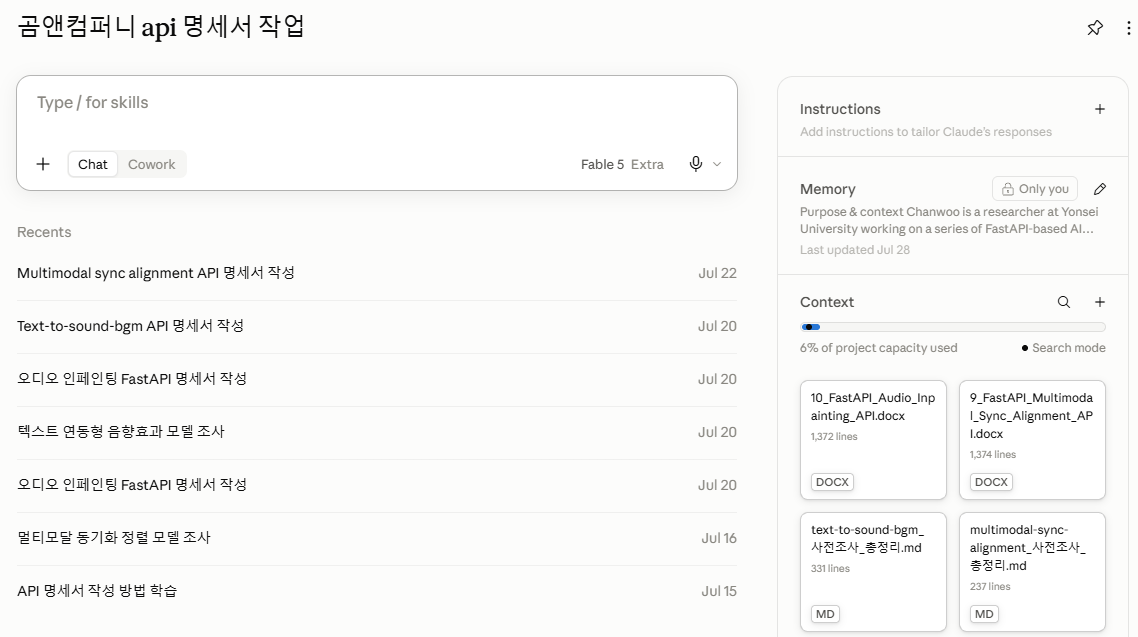
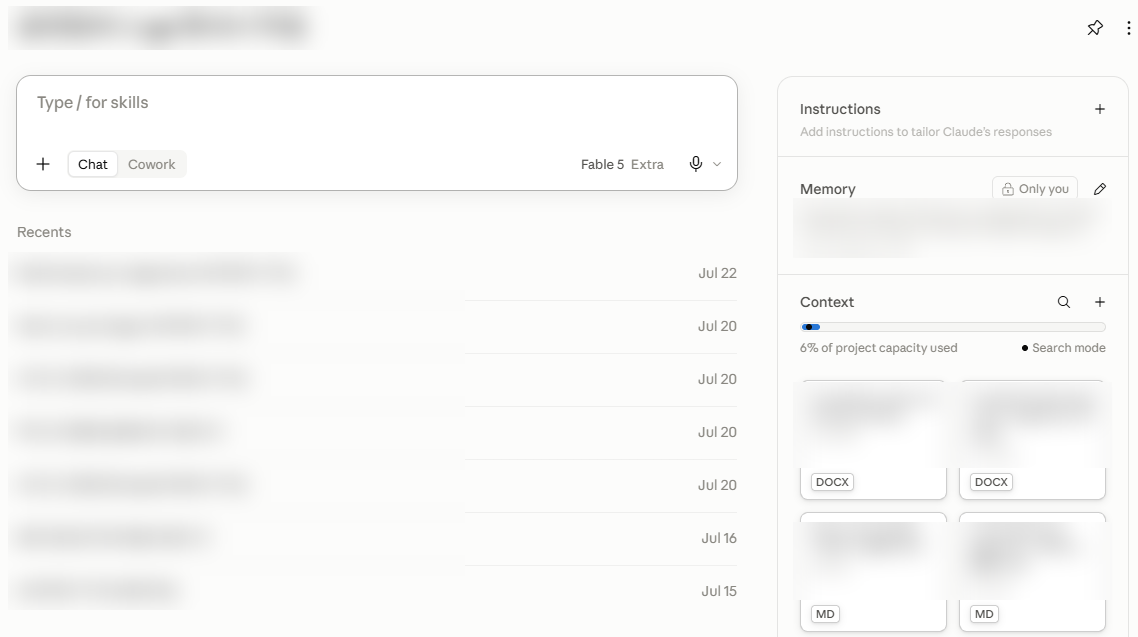
Blur project capture, adopt v2 Instructions wording, add MCP problem narrative
- project-screen.png: blur project title, chat titles, memory text, and
  document names; UI structure and Search-mode indicator stay readable
- #6b (KO/EN): adopt presenter's v2 wording — 'age of prompt engineering'
  now includes desired output format; 'Global instruction' bullet; closing
  line 'an early way of handing know-how to the AI'; caption simplified
- #13 MCP (KO/EN): restructured as problem-to-solution narrative — M apps x
  N tools hand-built integrations, Before/After diagram, MCP server/client
  once each (M+N), USB-C analogy, industry adoption; EN bullets tightened
  to keep the skill line on-slide
- outline.md #6b/#13 entries updated to match

Claude-Session: https://claude.ai/code/session_01M6R5khRxzAqaWHqjVftNAn

diff --git a/slides/part1-draft.md b/slides/part1-draft.md
@@ -105,18 +105,19 @@ em { display: block; text-align: center; font-size: 17px; margin: 2px 0 12px; }
 
 ![h:205](assets/part1/profile-instructions.png) ![h:230](assets/part1/custom-instructions-gpt.jpg)
 
-*< Claude의 개인 지침(Instructions for Claude)과 ChatGPT 맞춤 설정 >*
+*< Claude와 GPT의 custom instruction >*
 
-- **프롬프트 엔지니어링의 시대** — 지시와 함께 입력해주던 맥락, 규칙
+- **프롬프트 엔지니어링의 시대** — 채팅 지시와 함께 입력해주던 맥락, 규칙, 원하는 출력 형태
   - **"너는 10년 차 백엔드 엔지니어야"** — 역할(persona)을 부여하기도 함
-- **변화: 매 대화마다 채팅에 반복 입력하던 맥락을, 스크린샷처럼 설정에 한 번 통째로 입력** — 모든 대화에 자동 적용
-- 여기서 시작된 instructions의 계보가 Projects 지침 → CLAUDE.md → skills까지 이어진다
+- **Global instruction** — 매 대화마다 반복 입력하던 맥락을 별도로 관리, 모든 대화에 자동 적용
+- **AI에게 노하우를 전달하는 초기 방법** — 이 계보가 Projects 지침 → CLAUDE.md → skills로 이어진다
 
 <!--
-#6b | 3분 | 사용자 원안 기반 | 지시의 계보 부 축의 출발 정거장
+#6b | 3분 | 사용자 원안 기반 (전체본 v2 문안) | 지시의 계보 부 축의 출발 정거장
 - 캡처 2장: 왼쪽 Claude 프로필 개인 지침, 오른쪽 ChatGPT 맞춤 설정 (원안 보존본).
 - 변화의 서사가 이 장의 핵심: "매번 채팅에 붙여넣던 역할·규칙 →
-  설정에 한 번 담아두면 끝. 담는 곳이 생긴 것이 instructions의 시작입니다."
+  설정에 한 번 담아두면(global instruction) 끝. 담는 곳이 생긴 것이
+  instructions의 시작입니다."
 - 담는 곳의 계보(스피커용 연표): 시스템 프롬프트(2023.11, API) →
   개인 지침(claude.ai 프로필, 계정 전역) → Projects 커스텀 지침(2024.06,
   프로젝트 단위) → CLAUDE.md → skills. 담는 곳이 곧 적용 범위.
@@ -267,26 +268,38 @@ table { font-size: 20px; }
 
 ---
 
-# 2024.11: 사내 시스템 열쇠를 주는 표준 — MCP
+# 2024.11: MCP — 연결의 표준화
 
-**후배에게 서버·사내 시스템 접근을 주는 방법이 하나의 공개 표준이 되다 (Introduction ②의 "MCP")**
+**문제: 도구는 쓸 수 있게 됐는데, 연결은 전부 수제였다 — 앱 M개 × 도구 N개 = M×N번의 커스텀 통합**
 
 ```
-[사내 위키]  [이슈 트래커]  [사내 DB]
-     └──────── MCP 서버 ────────┘
-                  │ (표준 프로토콜)
-     ┌────────────┼────────────┐
- [Claude.ai]  [Claude Code]  [다른 클라이언트]
+Before (M×N) — 앱·도구 조합마다 전용 커넥터를 따로 개발
+  [Claude]═[위키]  [Claude]═[DB]  [IDE]═[위키]  [IDE]═[DB]  [챗봇]═[위키] ...
+
+After (M+N) — 연결 규격은 MCP 하나
+  [사내 위키]   [이슈 트래커]   [사내 DB]
+       └──────── MCP 서버 ────────┘
+                    │ (표준 프로토콜)
+       ┌────────────┼────────────┐
+  [Claude.ai]  [Claude Code]  [다른 클라이언트]
 ```
 
-- 한 번 만들면 어디서나: MCP 서버 하나로 모든 MCP 클라이언트에서 사용
-- 업계 전반이 채택한 오픈 표준
+- 도구 쪽은 **MCP 서버** 한 번, 앱 쪽은 **MCP 클라이언트** 한 번만 구현 — 조합 폭발이 사라진다
+- "AI계의 USB-C" — 기기마다 다른 케이블 대신 포트 하나
+- Anthropic이 공개한 오픈 표준(2024.11) → 업계 전반 채택 — 사내 시스템을 여는 공용 열쇠
 
 **역량 ⑧ 통합 설계** — 무엇을 어떤 경계로 열지 결정하는 안목 (권한 제한은 선배의 일)
 
 <!--
-#13 | 3분
-- [도식 자리] 위 텍스트 도식을 그래픽으로.
+#13 | 3분 | 서사: 무슨 문제를 풀려고 나왔나
+- 서사 순서: ① #8에서 도구 사용이 열림 → ② 그런데 연결마다 다른 API·인증·
+  형식을 앱별로 따로 구현 (통합 M×N 조합 폭발) → ③ 그래서 연결 "규격"을
+  공개 표준으로 — 도구는 서버 한 번, 앱은 클라이언트 한 번 (M+N).
+- Introduction ② 매핑 회수: 후배에게 서버·사내 시스템 접근을 주는 방법 =
+  **MCP**. "서버 할당"의 표준화.
+- 채택 언급(스피커): OpenAI(2025.03)·Google 등도 클라이언트로 채택
+  ⚠ 발표 전 최신 상태 재확인.
+- [도식 자리] Before/After 텍스트 도식을 그래픽으로.
 - 개념 소개까지만. "실제로 어떻게 붙이는지는 Part 2에서 Claude Code와 함께."
 - 보안 경계 언급: 열어주는 만큼 접근 범위를 설계해야 한다 (#15와 연결).
 -->

diff --git a/slides/part1-en-draft.md b/slides/part1-en-draft.md
@@ -98,17 +98,18 @@ em { display: block; text-align: center; font-size: 17px; margin: 2px 0 12px; }
 
 ![h:205](assets/part1/profile-instructions.png) ![h:230](assets/part1/custom-instructions-gpt.jpg)
 
-*< Profile instructions in Claude and custom instructions in ChatGPT >*
+*< Custom instructions in Claude and ChatGPT >*
 
-- **The age of prompt engineering** — context and rules delivered along with every request
+- **The age of prompt engineering** — context, rules, and the desired output format typed in with every chat request
   - **"You are a backend engineer with ten years of experience"** — assigning a persona
-- **The shift: what was retyped into every chat is now entered whole in settings, once** — applied to every conversation automatically
-- The instructions lineage born here runs on to Projects instructions → CLAUDE.md → skills
+- **Global instruction** — context once retyped into every conversation, now managed separately and applied to every chat automatically
+- **An early way of handing know-how to the AI** — the lineage runs on to Projects instructions → CLAUDE.md → skills
 
 <!--
-#6b | 3분 | 사용자 원안 기반 | 지시의 계보 부 축의 출발 정거장
+#6b | 3분 | 사용자 원안 기반 (전체본 v2 문안) | 지시의 계보 부 축의 출발 정거장
 - 캡처 2장: 왼쪽 Claude 프로필 개인 지침, 오른쪽 ChatGPT 맞춤 설정 (원안 보존본).
-- 변화의 서사가 핵심: 매번 채팅에 붙여넣던 역할·규칙 → 설정에 한 번 통째로.
+- 변화의 서사가 핵심: 매번 채팅에 붙여넣던 역할·규칙 → 설정에 한 번
+  통째로(global instruction).
 - 담는 곳의 계보(스피커용 연표): system prompt(2023.11, API) →
   profile instructions(계정 전역) → Projects custom instructions(2024.06,
   프로젝트 단위) → CLAUDE.md → skills. 담는 곳이 곧 적용 범위.
@@ -249,26 +250,36 @@ knowledge > context window   →  RAG retrieval kicks in (paid plans)
 
 ---
 
-# Nov 2024: MCP — A Standard Key to Internal Systems
+# Nov 2024: MCP — Standardizing the Connection
 
-**Granting the junior access to servers and internal systems becomes one open protocol — the "MCP" of the Introduction**
+**The problem: models could use tools, but every connection was hand-built — M apps × N tools = M×N custom integrations**
 
 ```
-[Internal wiki]  [Issue tracker]  [Internal DB]
-       └──────────  MCP server  ──────────┘
-                        │  (standard protocol)
-       ┌────────────────┼────────────────┐
-  [Claude.ai]     [Claude Code]     [Other clients]
+Before (M×N) — a dedicated connector per app-tool pair
+  [Claude]═[wiki]  [Claude]═[DB]  [IDE]═[wiki]  [IDE]═[DB]  [bot]═[wiki] ...
+
+After (M+N) — one connection standard: MCP
+  [Internal wiki]  [Issue tracker]  [Internal DB]
+        └──────────  MCP server  ──────────┘
+                         │  (standard protocol)
+        ┌────────────────┼────────────────┐
+   [Claude.ai]     [Claude Code]     [Other clients]
 ```
 
-- Build one MCP server; use it from every MCP client
-- Adopted industry-wide as an open standard
+- One **MCP server** per tool, one **MCP client** per app — the explosion disappears
+- "USB-C for AI" — one port instead of a different cable per device
+- An open standard (Anthropic, Nov 2024), adopted industry-wide — the shared key to internal systems
 
-**Skill ⑧ — integration design and access boundaries** (limiting permissions remains our job)
+**Skill ⑧ — integration design** (deciding what to open, with which boundaries — limiting permissions remains our job)
 
 <!--
-#13 | 3분
-- [도식 자리] 위 텍스트 도식을 그래픽으로.
+#13 | 3분 | 서사: 무슨 문제를 풀려고 나왔나
+- 서사 순서: ① 도구 사용이 열림(#8) → ② 연결마다 다른 API·인증·형식을
+  앱별로 따로 구현 (M×N 조합 폭발) → ③ 연결 "규격"을 공개 표준으로 (M+N).
+- Introduction ② 매핑 회수: 후배에게 서버·사내 시스템 접근을 주는 방법 =
+  **MCP**. "서버 할당"의 표준화.
+- 채택 언급(스피커): OpenAI(2025.03)·Google 등도 채택 ⚠ 발표 전 재확인.
+- [도식 자리] Before/After 텍스트 도식을 그래픽으로.
 - 개념까지만. "실제 연결은 Part 2에서 Claude Code와 함께."
 - 보안 경계 언급 — #15와 연결.
 -->

diff --git a/slides/outline.md b/slides/outline.md
@@ -82,8 +82,9 @@
   통째로 입력하는 방식으로 바뀌었다
 - 내용: 캡처 2장 상단 배치 `[예시]` (assets/part1/profile-instructions.png —
   Claude 프로필 개인 지침 / custom-instructions-gpt.jpg — ChatGPT 맞춤 설정) /
-  프롬프트 엔지니어링의 시대 — 지시와 함께 입력하던 맥락·규칙, 페르소나 부여 /
-  **변화**: 매번 채팅 입력 → 설정에 한 번 입력, 모든 대화 자동 적용
+  프롬프트 엔지니어링의 시대 — 채팅 지시와 함께 입력하던 맥락·규칙·출력 형태,
+  페르소나 부여 / **Global instruction**: 반복 입력하던 맥락을 별도로 관리,
+  모든 대화 자동 적용 / AI에게 노하우를 전달하는 초기 방법 (원안 v2 문안)
 - 발표 포인트: 지시의 계보 부 축의 출발 정거장 / "담는 곳 = 적용 범위" 연표는
   스피커 노트로(시스템 프롬프트 2023.11 → 개인 지침 → Projects 지침 2024.06) /
   Introduction ② **instructions** 매핑의 회수 시작 /
@@ -136,9 +137,13 @@
   수렴(#14)의 "스스로 도는 루프" 서사에서 구두로 한 줄 언급 가능.
 
 ### #13. 연결의 표준 — MCP (2024.11)
-- **핵심 메시지**: 서비스마다 제각각이던 도구 연결이 하나의 공개 표준이 됐다
-- 내용: MCP 개념 도식 `[도식]` (하나의 MCP 서버 ↔ 여러 클라이언트) / 사내 도구 연결 그림
-- 발표 포인트: **역량 ⑧: 통합 설계와 접근 경계 설정** / 개념 소개 수준, 상세는 Part 2
+- **핵심 메시지 (문제→해결 서사)**: 도구는 쓸 수 있게 됐는데 연결은 전부 수제
+  (앱 M개 × 도구 N개 = M×N 커스텀 통합) → 연결 규격을 공개 표준 하나로 (M+N)
+- 내용: Before/After 도식 `[도식]` (조합마다 전용 커넥터 vs 하나의 MCP 서버 ↔
+  여러 클라이언트) / "AI계의 USB-C" 비유 / 업계 채택 (OpenAI 2025.03 등 —
+  스피커 노트, ⚠ 재확인)
+- 발표 포인트: **역량 ⑧: 통합 설계와 접근 경계 설정** / Introduction ② "서버
+  할당"의 표준화로 회수 / 개념 소개 수준, 상세는 Part 2
 
 ### #14. 수렴 — 왜 에이전트인가 (2025.02~)
 - **핵심 메시지**: 지금까지의 모든 조각이 "스스로 루프를 도는 모델"로 조립된다
